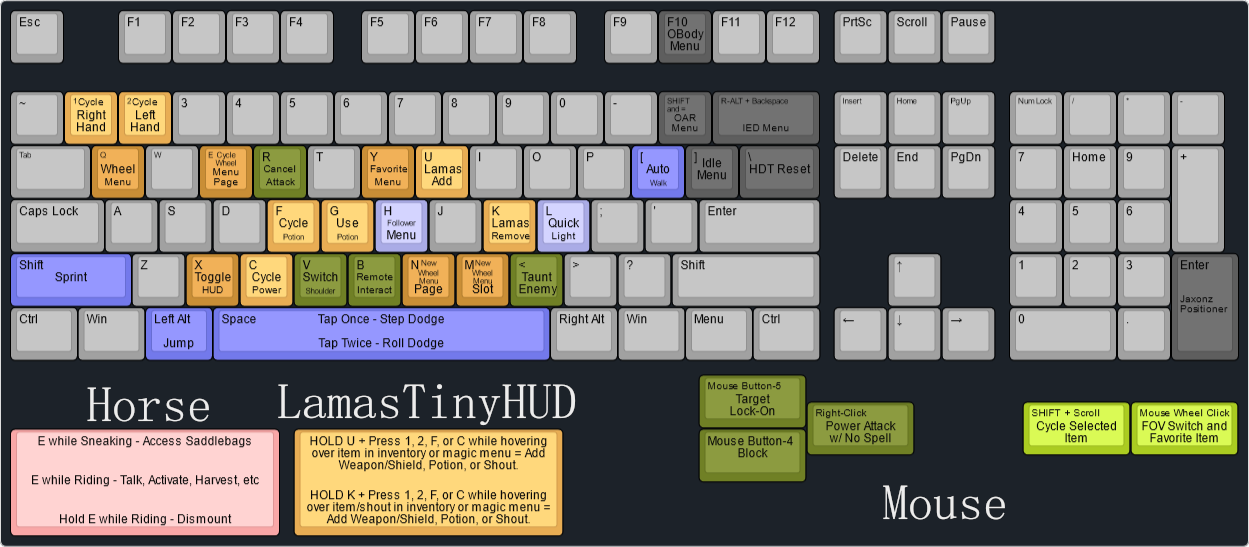
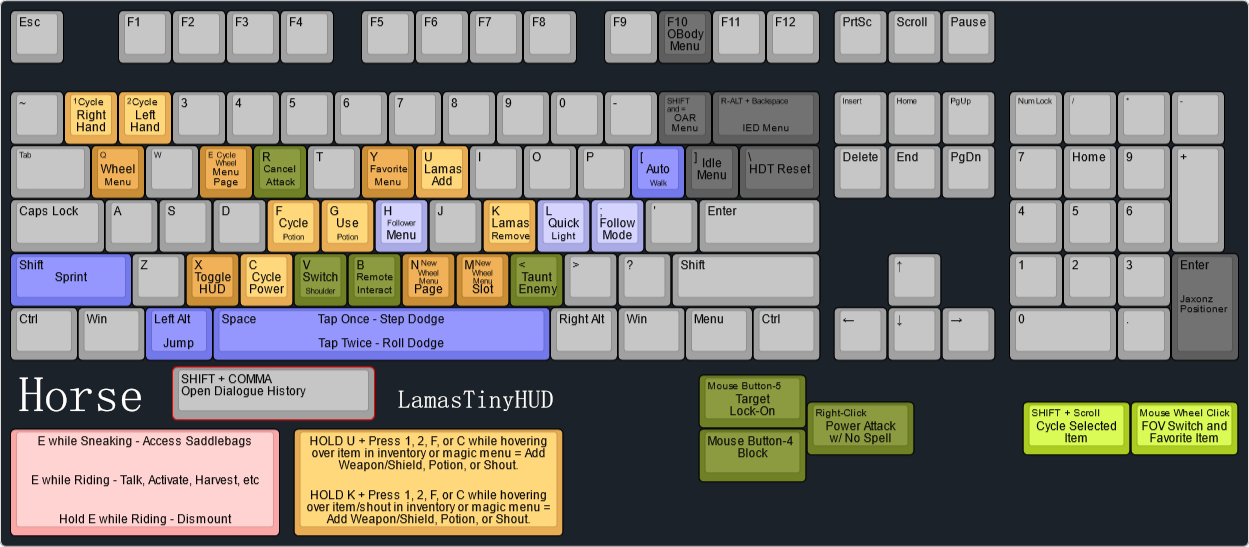
0.9.6.3

diff --git a/content/en/docs/Other Info/changelog.md b/content/en/docs/Other Info/changelog.md
@@ -10,6 +10,149 @@ Basic conflict resolution when adding a mod is generally not included here, ever
 
 If the third number in a version (the 3 in 9.1.3) is changed, that version is **NOT SAFE** to update to on an existing save. If the fourth number in a version (i.e the 4 in 9.1.3.4) is changed or added, then that version should be safe to update to on an existing save, but you may encounter some non-breaking issues.
 
+## v0.9.6.3 - **5/27/2024**
+
+This version fixes a crash when re-loading saves for many users, as well as resolve an issue with Valhalla executions. A good many mods have been updated, along with some new introductions!
+
+This version is **save-safe**. If you have progressed through Vominheim however, you will have issues there! Also, anyone wearing a removed armor set will now be exposed!
+
+Thank you everyone who has reported bugs and made suggestions!
+
+### Removed
+
+- Anglerfish - Fathom's Creature Series (https://github.com/zediious/tpfz-sprinkles/issues/108)
+- Forgotten Medieval Plate Armor (https://github.com/zediious/tpfz-sprinkles/issues/86)
+- Orcish Leather Armor
+- Orcish Scout Armor
+
+### Added
+
+- Alchemy XP Fix
+- ImGui Icons
+- Kome's Inventory Tweaks
+- Skyrim Souls RE - 1.5.97 DLL
+- Dialogue History
+- Menu Zoom
+- Immersive Plaque Reading Interface
+- Failed Pickpocket Gains XP Redux - NFF Patch
+- Honed Metal - 1.5.97 DLL
+- Hunters Loot and Skin Animals
+- Infiltration - Quest Expansion
+- Ivarstead Source
+- Stress and Fear - A Dynamic Sanity System
+- Take a Nap - Sleep on Chairs
+- Immersive Spell Learning - Exclusions (https://github.com/zediious/tpfz-sprinkles/issues/117)
+- Beyond Skyrim - Bruma - Unofficial Patch
+- Bruma Navmesh Fix
+- Gorm Armor + Xtudo Fixes
+- Crown Plate Set + Xtudo Fixes
+- Valhalla Combat - Backstab Bug Fix
+- Paulicus Poison Block Updated (https://github.com/zediious/tpfz-sprinkles/issues/93)
+- Endless Firewood - Chop Forever (https://github.com/zediious/tpfz-sprinkles/issues/106)
+- Persistent Favorites
+- The Standing Sound Stones
+- Object Categorization Framework
+- XP32 Maximum Skeleton Special Extended - Fixed Scripts
+- Dynamic Crafting Animations
+- Immersive Fishing
+- No Grass in Objects - Ultra Profile
+
+### Updated
+
+- Community Shaders - 0.8.4 > 0.8.7
+- Subsurface Scattering - 1.0 > 1.0.1
+- Wetness Effects - 1.0 > 1.0.2
+- More Informative Console - 1.1 > 1.2
+- Skyrim Particle Patch for ENB - 1.2.8 > 1.2.9
+- No Grass in Objects - 8.0 > 1.0.14
+- Assorted Mesh Fixes - 0.91 > 0.98.1
+- Naked Dead NPC Fix - 1.0.6 > 1.0.7
+- Infinity UI - 2.0.1 > 2.0.2
+- Inventory Interface Information Injector - 1.0.2 > 1.1.0
+- Inventory Interface Information Injector - 1.5.97 DLL - 1.0 > 1.1.0
+- Constructible Object Custom Keyword System - 1.1 > 1.1.1
+- Constructible Object Custom Keyword System - 1.5.97 DLL - 2.1 > 2.2
+- TrueHUD - HUD Additions - 1.1.8 > 1.1.9
+- Skyrim Souls RE - 2.2.2 > 2.4.0
+- Read Or Take - 1.3 > 1.4
+- Compass Navigation Overhaul - 2.1.1 > 2.2
+- DynDOLOD Resources - Alpha-47 > Alpha-49
+- DynDOLOD DLL NG - Alpha-17 > Alpha-29
+- Rally's Solstheim Plants 2K - 1.0 > 1.2
+- Iconic's Falmer Eye Gem Retexture 2K - 1.1 > 1.0.1
+- Horker HD by Pfuscher - 2.0 > 3.0
+- Modular SMP Hairstyles - 1.02 > 1.031
+- Adamant - A Perk Overhaul - 5.9.1 > 5.9.2
+- Mysticism - A Magic Overhaul - 2.4.1 > 2.4.2
+- Aetherius - A Race Overhaul - 2.12.1 > 2.13.2
+- Mundus - A Standing Stone Overhaul - 1.12.2 > 1.13.0
+- Armor and Clothing Extension - 1.5.1 > 1.5.2
+- Dialogue Expansion - Brelyna Maryon - 1.3.2 > 1.5
+- Scared of Shootings - NPCs react to aiming bows - 0.2.1 > 0.3
+- The Whispering Door - Quest Expansion - 1.10 > 1.11
+- Ryn's Snazzy Last Vigil - 1.2 > 1.3
+- Skyrim on Skooma - 69.5 > 69.69
+- Alternate Perspective - Voiced Addon - 1.0.1 > 1.10
+- Start in Bruma - Alternate Perspective Addon - 1.1 > 1.2
+- Vigilant - NPC Overhaul - 2.8.1 > 2.8.2
+- The Wheels of Lull - 5.1.12 > 5.1.13.3
+- Wyrmstooth - 12.0.1 > 12.0.2
+- Land of Vominheim - 2.19 > 2.40
+- Molag Bal's Inferno - Strange Men Fix - 0.9.5 > 0.9.6.3
+- SIRENROOT - Deluge of Deceit - 1.10 > 1.21
+- The Grand Paladin - 1.5 > 1.52
+- Siege at Icemoth - 1.2 > 1.2.1
+- Skybound Underhang Camp - 5.0 > 6.0
+- Skybound Underhang Camp - Lawbringer Extension - 1.4 > 1.5
+- Vorono's Bauernwehr - 1.0 > 1.11
+- NPCs Take Cover - Smarter Anti-Cheese AI - 1.0 > 1.01
+- Descriptions for Various Mods - 2.3 > 2.4.1
+- Photo Mode - 1.2 > 1.4
+- Open Animation Replacer - 2.2.2 > 2.3.0
+- Comprehensive First Person Animation Overhaul - 1.0.3 > 1.4-hotfix
+- Weapon Styles - Draw Sheathe Animations for IED - 2.1 > 2.2
+- Precision Creatures - 2.3 > 2.4
+- NPC Animation Remix - 1.8 > 1.9.0
+- Lively Children Animations - 1.0 > 2.2.1
+- Gesture Animation Remix - 2.0 > 2.1.1
+- Conditional Tavern Cheering - 1.1 > 1.3
+- Modern Female Sitting Animations Overhaul - 1.8 > 1.9
+- Immersive Interactions - Animated Actions - 1.75 > 1.76
+- Base Object Swapper - 2.6.1 > 3.0.3
+- Spell Perk Item Distributor - 6.8.2 > 7.1.3
+- Sonders Keyword Distribution Resources - 1.2 > 1.4
+- NPCs Names Distributor - 2.4 > 2.5.1
+- Description Framework - 1.3 > 2.1.1
+- Leveled List Additions (Armors) - 0.9.6 > 0.9.6.3
+- Leveled List Additions (Weapons) - 0.9.6 > 0.9.6.3
+- MonsterPatch - 0.9.6 > 0.9.6.3
+- ZedPatch - 0.9.6 > 0.9.6.3
+- ZedPatch2 - 0.9.6 > 0.9.6.3
+- ZedPatch3 - 0.9.6 > 0.9.6.3
+- City Navmesh Patches - 0.9.5 > 0.9.6.3
+- Synthesis Output - 0.9.6 > 0.9.6.3
+- Occlusion Output - 0.9.6 > 0.9.6.3
+- BodySlide Output - 0.9.6 > 0.9.6.3
+- Overwrite Misc - 0.9.5.7 > 0.9.6.3
+
+### Fixes
+
+- Re-added XPMSE - Fixed Scripts, resolving a common re-load crash for many users (https://github.com/zediious/tpfz-sprinkles/issues/111)
+- Added a fix to stop Valhalla backstab functionality from misbehavin' (https://github.com/zediious/tpfz-sprinkles/issues/110)
+- Corrected table and fireplace clipping on Jorrvaskr porch (https://github.com/zediious/tpfz-sprinkles/issues/112)
+- Corrected clipping fishing supplies in Morthal, and changed navmesh to fit new positions (https://github.com/zediious/tpfz-sprinkles/issues/103)
+- Resolved Una NPC in Blue Palace from being bald when they are not meant to be (https://github.com/zediious/tpfz-sprinkles/issues/109)
+- Patched script to prevent taking items from NFF storage from giving "failed" pickpocket XP.
+- Resolved Honed Metal crash when crafting enchanted items twice with new DLL from mod author.
+- Prevent Young Man from appearing randomly and following you in the world, alongside Strange Man.
+- Made NPCs at Half-Moon Mill no longer get distributed names
+- Made Bears in Shadowgreen Cavern no longer get distributed names
+
+### Tweaks
+
+- Removed forge  recipes for Draugr weapons.
+- Reduced value of added Draugr weapons.
+
 ## v0.9.6.2 - **3/26/2024**
 
 This version is save safe! It removes Skyrim Motion Control, as it has been found to be still causing freezing either alone or in conjunction with other mods in the list.

diff --git a/content/en/docs/Other Info/addedequipment.md b/content/en/docs/Other Info/addedequipment.md
@@ -340,6 +340,7 @@ Draugr Weapons Standalone
 
 - Nordic Steel Katana
 - Nordic Steel Wakizashi
+- Crown Sword (Renamed Crowned Sword)
 
 ### Waraxe
 
@@ -659,6 +660,7 @@ Khajiiti Apex Armory
 - Inquisitor Set
 - Illusive Infiltrator Set
 - Elmlock Set
+- Gorm Set
 
 ### Glass Tier
 
@@ -690,7 +692,6 @@ Khajiiti Apex Armory
 - Nordwar Steel Scaled Set
 - Nordwar Steel Lamellar Set
 - Infantry Heavy Steel Set
-- Forgotten Plate Set
 - Royal Guard Set
 - Ignoble Steel Set
 - Duskplate Steel Set
@@ -713,13 +714,12 @@ Khajiiti Apex Armory
 - Kvetchi Mercenary Set
 - Landlord Set
 - Fluted Set
+- Crown Plate Set
 
 ### Orcish Tier
 
 - Orcish Chief Set
 - Nordic Wanderer Set
-- Orcish Leather Set
-- Orcish Scout Set
 
 ### Nordic Tier
 

diff --git a/content/en/docs/Mandatory Reading/Gameplay Guide/importanthotkeys.md b/content/en/docs/Mandatory Reading/Gameplay Guide/importanthotkeys.md
@@ -202,6 +202,11 @@ Equip items to your right or left hand from the Wheel Menu with Left Click and R
 
 ## Misc
 
+### SHIFT+;
+
+- Open the Dialogue History menu, to view previous conversations with NPCs
+- This can be changed in the Dialogue History MCM
+
 ### ]
 
 - Open the Idle Menu, to perform a few different idle animations.

diff --git a/content/en/docs/Other Info/eslplugins.md b/content/en/docs/Other Info/eslplugins.md
@@ -38,7 +38,6 @@ If a plugin has had its FormIDs compacted before flagging ESL, that will be note
 - Sabrecat_Preview_MCO.esp
 - Enhanced Vanilla Trees SSE.esp
 - HandToHandLocksmith.esp
-- DEST_ISL.esp
 - LovelyLetter.esp
 - ModernizeVanilla.esp
 - RaceMenuMorphsCBBE.esp

diff --git a/content/en/docs/_index.md b/content/en/docs/_index.md
@@ -7,7 +7,7 @@ weight: 20
 ---
 A heavily curated Skyrim mod list, focused on elevating the game to a modern standard.
 
-Current version: March 26th 2024 - v0.9.6.2
+Current version: 5/27/2024 - v0.9.6.3
 
 Mod List + Archive Total Size: ~393GB
 

diff --git a/content/en/docs/Notable Mods/creatures.md b/content/en/docs/Notable Mods/creatures.md
@@ -120,5 +120,3 @@ Inspired by Nito of Dark Souls, this creature is a powerful necromantic creature
 ## Cernunnos
 
 ## Ogres
-
-## Anglerfish
